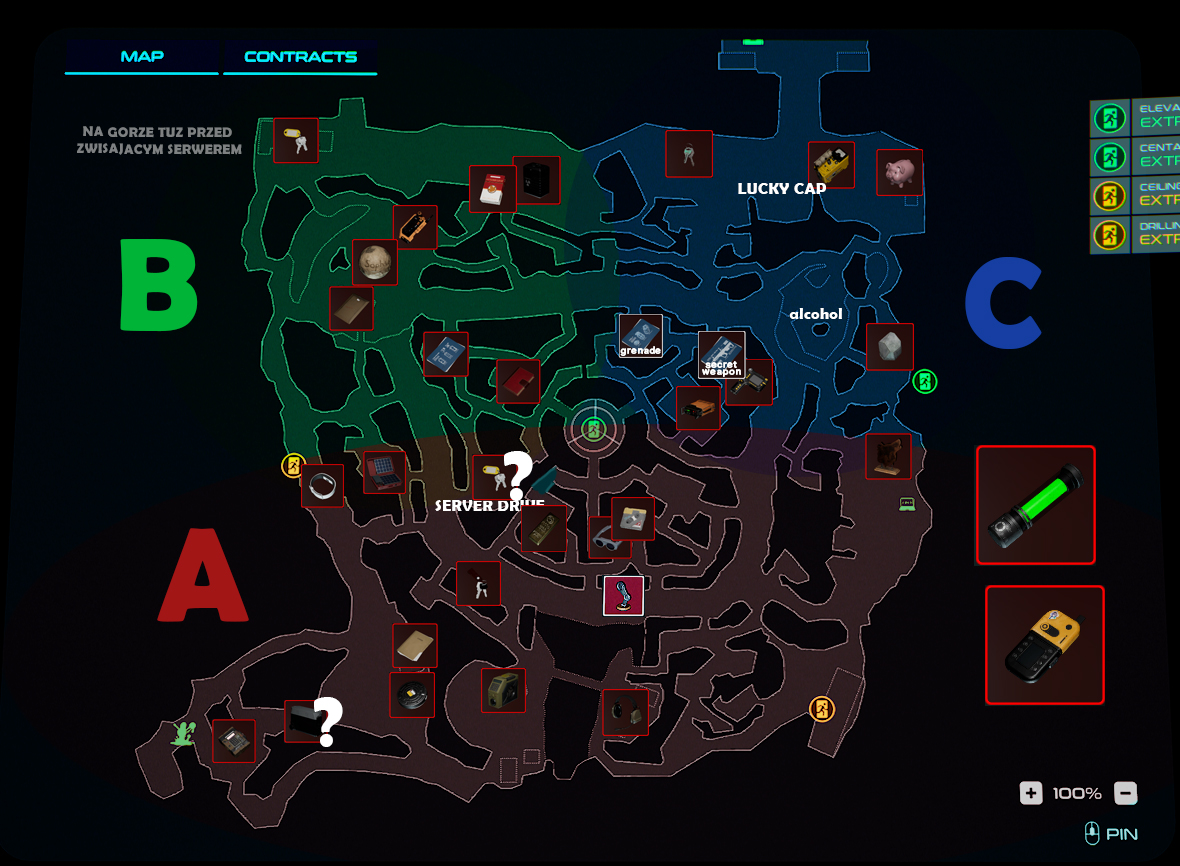
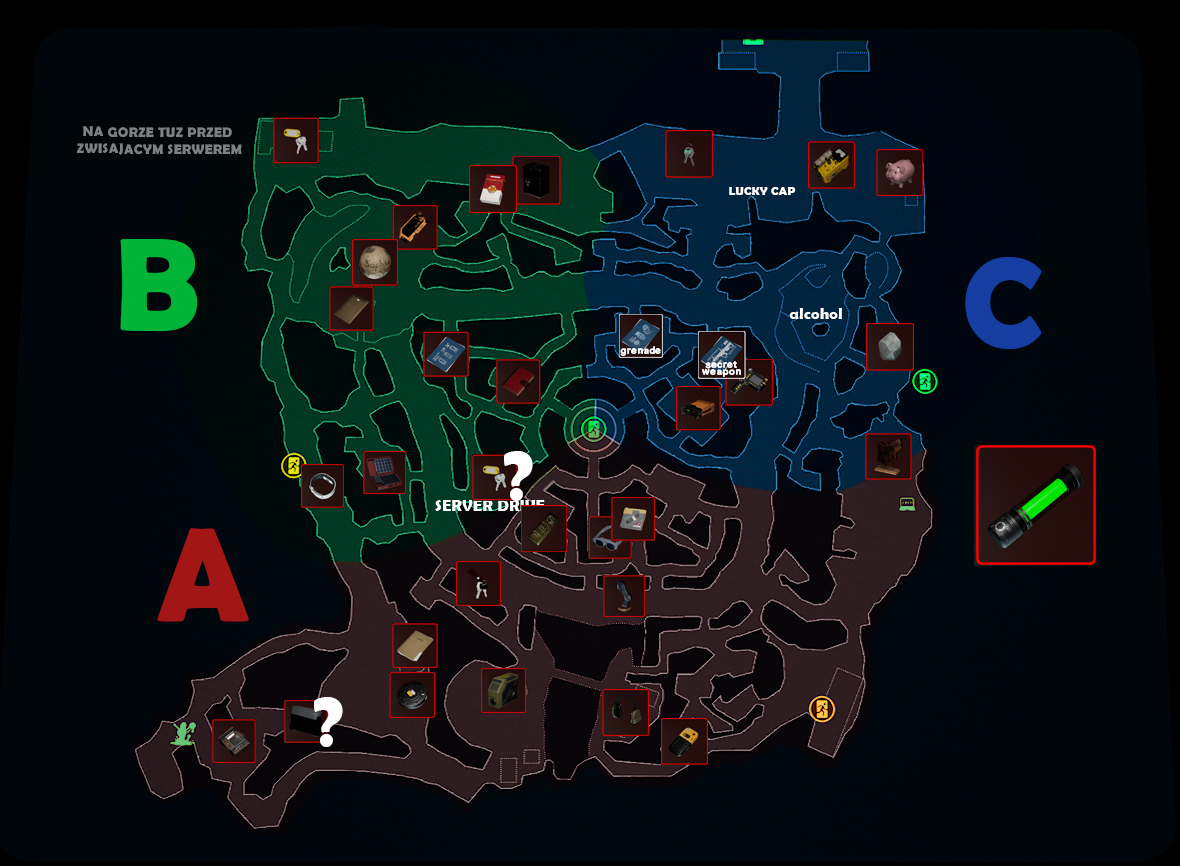
data analyzer update

diff --git a/index.html b/index.html
@@ -28,6 +28,7 @@
       <img src="./IMAGES/wristband.jpg" alt="Overlay Image" class="wristband-on-map" id="wristbandOnMap">
 
       <img src="./IMAGES/disk.jpg" alt="Overlay Image" class="disk-on-map" id="diskOnMap">
+      <img src="./IMAGES/analyzer.jpg" alt="Overlay Image" class="analyzer-on-map" id="analyzerOnMap">
 
 
 
@@ -79,11 +80,10 @@
         <div class="spacea">c</div>
         <div>
           <button class="button disk"></button>
+          <button class="button analyzer"></button>
         </div>
       </div>
       <div class="space">d</div>
-      <div class="space">e</div>
-      <div class="space">f</div>
       <div class="B">
         <div>
           <button class="button keysb"></button>
@@ -100,8 +100,6 @@
         </div>
       </div>
       <div class="space">h</div>
-      <div class="space">i</div>
-      <div class="space">j</div>
       <div class="C">
         <div>
           <button class="button keysc"></button>
@@ -118,8 +116,6 @@
         </div>
       </div>
       <div class="space">l</div>
-      <div class="space">m</div>
-      <div class="space">n</div>
       <div>
         <button class="clear">CLEAR</button>
       </div>
@@ -159,6 +155,8 @@
 
       const diskButton = document.querySelector('.disk');
       const diskImage = document.getElementById('diskOnMap');
+      const analyzerButton = document.querySelector('.analyzer');
+      const analyzerImage = document.getElementById('analyzerOnMap');
 
 
 
@@ -248,6 +246,7 @@
           wristbandImage.style.display = wristbandButton.classList.contains('wristband-pressed') ? 'block' : 'none';
 
           diskImage.style.display = diskButton.classList.contains('disk-pressed') ? 'block' : 'none';
+          analyzerImage.style.display = analyzerButton.classList.contains('analyzer-pressed') ? 'block' : 'none';
 
 
 

diff --git a/main.css b/main.css
@@ -253,6 +253,22 @@ body {
   height: auto;
 }
 
+.analyzer {
+  background-image: url(./IMAGES/analyzer.jpg);
+}
+
+.analyzer-pressed {
+  background-image: url(./IMAGES/analyzerbnw.jpg);
+}
+
+.analyzer-on-map {
+  position: absolute;
+  top: 83%;
+  left: 56%;
+  width: auto;
+  height: auto;
+}
+
 .keysb {
   background-image: url(./IMAGES/keysb.jpg);
 }
@@ -510,7 +526,7 @@ body {
 }
 
 .clear {
-  margin-left: 20px;
+  margin-right: 50%;
 }
 
 .A {
